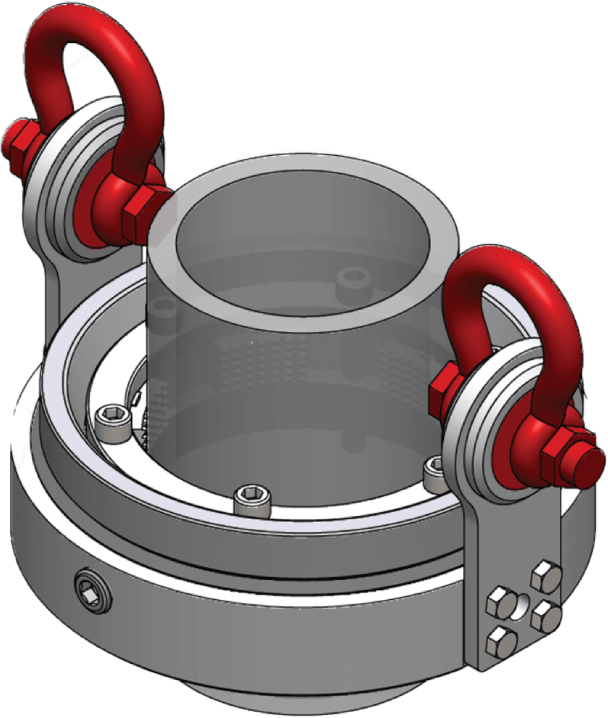
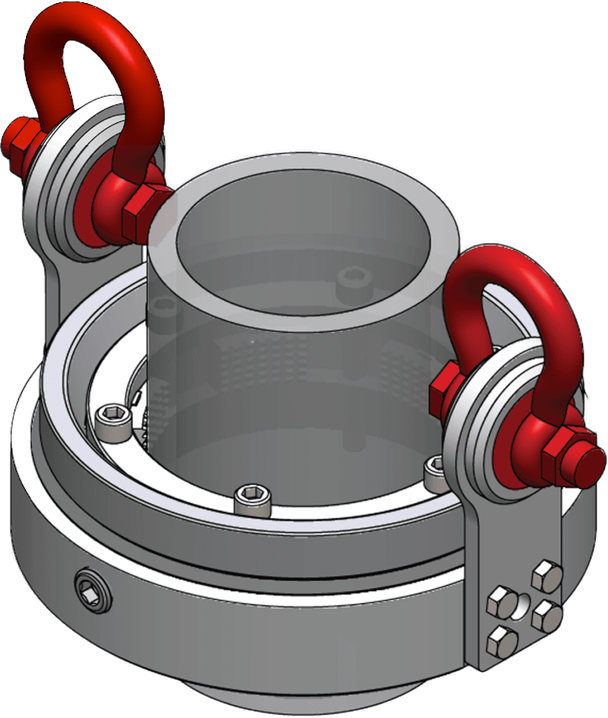
Kim final feedback (Nov 17): I&E naming, hero subtitle line breaks, benefit box alignment, centred list titles, nav opens on current section, clean search excerpts, CATM wording, footer dispatch numbers, new Tether Ring render, test jobs removed. Theme 0.4.11
Claude-Session: https://claude.ai/code/session_01WyYt77ZRT3Wx6KnEJioaaK

diff --git a/wp/wp-content/themes/protorque/assets/css/main.css b/wp/wp-content/themes/protorque/assets/css/main.css
@@ -122,7 +122,7 @@ button { font: inherit; color: inherit; background: none; border: 0; padding: 0;
 /* Hero */
 .pt-hero { position: relative; height: 750px; display: grid; place-items: center; overflow: hidden; color: var(--pt-white); }
 .pt-hero__video { position: absolute; inset: 0; width: 100%; height: 100%; object-fit: cover; }
-.pt-hero__scrim { position: absolute; inset: 0; background: rgba(0,0,0,.12); }
+.pt-hero__scrim { position: absolute; inset: 0; background: radial-gradient(ellipse at center, rgba(0,0,0,.58) 0%, rgba(0,0,0,.38) 55%, rgba(0,0,0,.22) 100%); }
 .pt-hero__title {
   position: relative;
   font-family: var(--pt-font-title);
@@ -132,6 +132,7 @@ button { font: inherit; color: inherit; background: none; border: 0; padding: 0;
   text-align: center;
   text-transform: uppercase;
   letter-spacing: 0.005em;
+  text-shadow: 0 2px 24px rgba(0,0,0,.55), 0 0 2px rgba(0,0,0,.6);
 }
 
 /* Mission */
@@ -454,7 +455,11 @@ button { font: inherit; color: inherit; background: none; border: 0; padding: 0;
 .pt-pagehero--sub img { filter: grayscale(1); }
 .pt-pagehero__scrim { position: absolute; inset: 0; background: rgba(0,0,0,.28); }
 .pt-pagehero__text { position: relative; text-align: center; max-width: 900px; padding: 0 var(--pt-gutter); }
-.pt-pagehero__sub { margin-top: 28px; font-size: 1.25rem; line-height: 1.45; font-weight: 500; max-width: 66rem; margin-inline: auto; }
+.pt-pagehero__sub { margin-top: 28px; font-size: 1.25rem; line-height: 1.45; font-weight: 500; max-width: 66rem; margin-inline: auto; text-wrap: balance; }
+@media (min-width: 1000px) { .pt-subline { display: block; } }
+/* No one-word last lines in centred copy (Kim, Nov 17) */
+.pt-lede, .pt-svc-overview p, .pt-h2, .pt-mission__text { text-wrap: balance; }
+p { text-wrap: pretty; }
 .pt-pagehero__text .pt-btn { margin-top: 36px; }
 
 /* Overview: photo left, text right (Our Story pattern) */
@@ -558,7 +563,7 @@ button { font: inherit; color: inherit; background: none; border: 0; padding: 0;
 .pt-checklist__head { grid-column: 1 / -1; font-family: var(--pt-font-title); font-size: 1.375rem; letter-spacing: 0.04em; text-transform: uppercase; margin-top: 12px; }
 .pt-checkgroups { display: grid; grid-template-columns: repeat(3, 1fr); gap: 40px 56px; max-width: 1180px; margin: 56px auto 0; }
 .pt-checkgroups--2 { grid-template-columns: repeat(2, 1fr); max-width: 900px; }
-.pt-checkgroup .pt-checklist__head { margin: 0 0 18px; padding-bottom: 12px; border-bottom: 2px solid rgba(255,255,255,0.35); }
+.pt-checkgroup .pt-checklist__head { margin: 0 0 18px; padding-bottom: 12px; border-bottom: 2px solid rgba(255,255,255,0.35); text-align: center; }
 .pt-checklist--col { display: block; margin: 0; max-width: none; }
 .pt-checklist--col li + li { margin-top: 14px; }
 @media (max-width: 900px) { .pt-checkgroups, .pt-checkgroups--2 { grid-template-columns: 1fr; gap: 36px; } }
@@ -621,9 +626,10 @@ button { font: inherit; color: inherit; background: none; border: 0; padding: 0;
 
 /* Why operators use it */
 .pt-benefits { padding: 112px var(--pt-gutter) 120px; }
-.pt-benefits__cols { display: grid; grid-template-columns: repeat(3, 1fr); gap: 0 48px; margin-top: 72px; }
-.pt-benefits__cols > div { padding: 8px 0; }
-.pt-benefits__cols > div + div { border-left: 2px solid var(--pt-yellow); padding-left: 48px; }
+.pt-benefits__cols { display: grid; grid-template-columns: repeat(3, 1fr); gap: 56px 48px; margin-top: 72px; }
+.pt-benefits__cols > div { padding: 8px 0 8px 48px; border-left: 2px solid var(--pt-yellow); display: grid; grid-template-rows: subgrid; grid-row: span 2; row-gap: 0; }
+.pt-benefits__cols > div:nth-child(3n+1) { border-left: 0; padding-left: 0; }
+.pt-benefits__cols h3 { align-self: end; }
 .pt-benefits__cols h3 { font-family: var(--pt-font-title); font-weight: 400; font-size: 2.125rem; line-height: 0.95; text-transform: uppercase; }
 .pt-benefits__cols p { margin-top: 22px; font-size: 1.0625rem; line-height: 1.45; font-weight: 500; }
 
@@ -721,8 +727,8 @@ button { font: inherit; color: inherit; background: none; border: 0; padding: 0;
 
 @media (max-width: 1180px) {
   .pt-rcards, .pt-rcards--4 { grid-template-columns: 1fr 1fr; }
-  .pt-benefits__cols { gap: 0 32px; }
-  .pt-benefits__cols > div + div { padding-left: 32px; }
+  .pt-benefits__cols { gap: 48px 32px; }
+  .pt-benefits__cols > div { padding-left: 32px; }
   .pt-tabs__grid, .pt-textlist__grid, .pt-eqhero__grid, .pt-featured { grid-template-columns: 1fr; gap: 48px 0; }
   .pt-eqhero__photo { max-width: 560px; }
   .pt-featured__body { padding: 40px; }
@@ -730,7 +736,8 @@ button { font: inherit; color: inherit; background: none; border: 0; padding: 0;
 }
 @media (max-width: 900px) {
   .pt-rcards, .pt-rcards--4, .pt-benefits__cols, .pt-postgrid, .pt-form__fields, .pt-newsletter .pt-form__fields { grid-template-columns: 1fr; }
-  .pt-benefits__cols > div + div { border-left: 0; padding-left: 0; margin-top: 40px; }
+  .pt-benefits__cols { gap: 40px 0; }
+  .pt-benefits__cols > div { border-left: 0; padding-left: 0; display: block; }
   .pt-media__gallery { grid-template-columns: 1fr; }
   .pt-tabs__tab { font-size: 1.125rem; padding: 10px 14px 12px; }
   .pt-table th { width: 100%; display: block; border-bottom: 0; padding-bottom: 4px; }

diff --git a/wp/wp-content/themes/protorque/page-midstream-services.php b/wp/wp-content/themes/protorque/page-midstream-services.php
@@ -12,7 +12,7 @@ get_header();
 $services = [
 	[ 'n' => '01', 'title' => 'Midstream Construction', 'lead' => 'New facilities, pipelines, and infrastructure built right.', 'body' => 'Plant construction, pipeline construction, facility expansion, civil work, foundations, and turnkey midstream builds. Combo welders for poly, carbon, and stainless.', 'url' => $home . 'midstream-services/midstream-construction/', 'cta' => 'Explore Midstream Construction' ],
 	[ 'n' => '02', 'title' => 'Plant and Pipeline Maintenance', 'lead' => 'Keeping facilities running. Responding fast when they need support.', 'body' => 'Ongoing maintenance, plant turnarounds, T&amp;M work, pipeline maintenance, and reliability programs. The crews operators call when downtime is not an option.', 'url' => $home . 'midstream-services/plant-and-pipeline-maintenance/', 'cta' => 'Explore Plant and Pipeline Maintenance' ],
-	[ 'n' => '03', 'title' => 'Facilities Electrical I&amp;C and Mechanical', 'lead' => 'Master electricians and mechanical trades under one roof.', 'body' => 'Electrical and instrumentation, mechanical trades, and full E&amp;I-Mech capability for facility builds, expansions, and ongoing maintenance. Turnkey when operators need it.', 'url' => $home . 'midstream-services/facilities-electrical-instrumentation-mechanical/', 'cta' => 'Explore Facilities E&amp;I and Mechanical' ],
+	[ 'n' => '03', 'title' => 'Facilities I&amp;E and Mechanical', 'lead' => 'Master electricians and mechanical trades under one roof.', 'body' => 'Electrical and instrumentation, mechanical trades, and full I&amp;E-Mech capability for facility builds, expansions, and ongoing maintenance. Turnkey when operators need it.', 'url' => $home . 'midstream-services/facilities-electrical-instrumentation-mechanical/', 'cta' => 'Explore Facilities I&amp;E and Mechanical' ],
 	[ 'n' => '04', 'title' => 'Environmental and Water Management', 'lead' => 'Water, environmental, and compliance services for midstream operations.', 'body' => 'Produced water management, clean brine facility operations, environmental compliance, and integrated water management programs. Connected to ProTorque&rsquo;s broader water and drilling capability.', 'url' => $home . 'midstream-services/environmental-and-water-management/', 'cta' => 'Explore Environmental and Water Management' ],
 	[ 'n' => '05', 'title' => 'ROW Services', 'lead' => 'Right of way clearing, pads, and civil work that gets the project ready.', 'body' => 'ROW clearing, new pad construction, civil concrete work, industrial weed control, and the foundational site work that midstream construction depends on.', 'url' => $home . 'midstream-services/row-services/', 'cta' => 'Explore ROW Services' ],
 	[ 'n' => '06', 'title' => 'Specialty Piping', 'lead' => 'Fiber glass piping and specialty material installation.', 'body' => 'Fiber glass piping installation for facilities and corrosive-service applications. Combo-welded carbon and stainless piping for facility expansions and new builds.', 'url' => $home . 'midstream-services/specialty-piping/', 'cta' => 'Explore Specialty Piping' ],
@@ -25,7 +25,7 @@ $services = [
 		<div class="pt-pagehero__scrim"></div>
 		<div class="pt-pagehero__text">
 			<h1 class="pt-pagehero__title">Midstream<br>Services</h1>
-			<p class="pt-pagehero__sub">Construction, maintenance, and operational support for the facilities and pipelines that move energy.</p>
+			<p class="pt-pagehero__sub"><?php echo pt_sub( 'Construction, maintenance, and operational support for the facilities and pipelines that move energy.' ); ?></p>
 		</div>
 	</section>
 
@@ -38,7 +38,7 @@ $services = [
 				<p class="pt-eyebrow pt-eyebrow--red">Midstream Services</p>
 				<h2 class="pt-h2 pt-h2--left">The Crews Behind Reliable Midstream Operations</h2>
 				<p>Facility reliability does not happen by accident. It takes skilled trades, fast response, and crews that understand the infrastructure they are working on. ProTorque provides midstream services for operators across North America: construction, maintenance, electrical and instrumentation, mechanical, environmental, ROW, and specialty piping. The work that keeps facilities operational and infrastructure performing.</p>
-				<p>Whether the program is a new facility build in the Permian Basin, a turnaround in West Texas, a pipeline tie-in, or ongoing E&amp;I and mechanical support for a midstream operator, ProTorque shows up with the trades, the equipment, and the discipline to keep operations on schedule.</p>
+				<p>Whether the program is a new facility build in the Permian Basin, a turnaround in West Texas, a pipeline tie-in, or ongoing I&amp;E and mechanical support for a midstream operator, ProTorque shows up with the trades, the equipment, and the discipline to keep operations on schedule.</p>
 				<p>Twenty-plus years of energy services experience. Combo welders for poly, carbon, and stainless. Master electricians on staff. Both mechanical and electrical departments under one roof for turnkey operations and builds.</p>
 			</div>
 		</div>
@@ -89,7 +89,7 @@ $services = [
 	<section class="pt-ctabar pt-section--black">
 		<div class="pt-ctabar__inner">
 			<h2 class="pt-ctabar__title">Need Crews on a Midstream Facility or Pipeline?</h2>
-			<p class="pt-ctabar__text">Talk to ProTorque about construction, maintenance, E&amp;I, ROW, or specialty piping work.</p>
+			<p class="pt-ctabar__text">Talk to ProTorque about construction, maintenance, I&amp;E, ROW, or specialty piping work.</p>
 			<a class="pt-btn" href="<?php echo esc_url( $home . 'contact-us/' ); ?>">Get in Touch</a>
 		</div>
 	</section>

diff --git a/wp/wp-content/themes/protorque/inc/sections.php b/wp/wp-content/themes/protorque/inc/sections.php
@@ -63,6 +63,32 @@ function pt_list_groups( array $items ): array {
 	return $groups;
 }
 
+/**
+ * Hero subtitle with a deliberate line break (Kim, Nov 17): a multi-sentence subtitle too long for one line
+ * breaks at the sentence end nearest its middle on desktop, so no single word is left alone on a second line.
+ * Short or single-sentence subtitles are left to CSS (text-wrap: balance).
+ */
+function pt_sub( $text ) {
+	$text = trim( (string) $text );
+	if ( mb_strlen( $text ) > 88 && preg_match_all( '/[.!?](?=\s+\S)/u', $text, $m, PREG_OFFSET_CAPTURE ) ) {
+		$mid  = strlen( $text ) / 2;
+		$best = null;
+		foreach ( $m[0] as $hit ) {
+			$pos = $hit[1] + 1;
+			if ( $pos < 24 || strlen( $text ) - $pos < 24 ) {
+				continue;
+			}
+			if ( null === $best || abs( $pos - $mid ) < abs( $best - $mid ) ) {
+				$best = $pos;
+			}
+		}
+		if ( null !== $best ) {
+			return '<span class="pt-subline">' . esc_html( trim( substr( $text, 0, $best ) ) ) . '</span> <span class="pt-subline">' . esc_html( trim( substr( $text, $best ) ) ) . '</span>';
+		}
+	}
+	return esc_html( $text );
+}
+
 function pt_content_page( $slug ) {
 	return pt_content_pages()[ $slug ] ?? null;
 }
@@ -78,6 +104,7 @@ function pt_img( $rel ) {
 		'content/irong-roughneck-card-2.jpg'     => 'content/iron-roughneck-card-v2.jpg',
 		'content/real-time-drilling-data-card.jpg' => 'content/real-time-drilling-data-card-v2.jpg',
 		'content/protorque-and-prostar.jpg'      => 'content/tubular-running-card-v2.jpg',
+		'content/mobile-bucking-frame-card.jpg'  => 'content/bucking-frame-4.jpg', // card showed the Mobile BHA Frame (Kim, Nov 17)
 	];
 	$rel = ltrim( $rel, '/' );
 	return get_template_directory_uri() . '/assets/img/' . ( $swap[ $rel ] ?? $rel );
@@ -194,7 +221,7 @@ function pt_render_section( $s, $page, &$prev ) {
 						<div class="pt-eqhero__text">
 							<p class="pt-eyebrow pt-eyebrow--yellow">Equipment &amp; Innovation</p>
 							<h1 class="pt-pagehero__title pt-eqhero__title"><?php echo esc_html( $s['title'] ); ?></h1>
-							<?php if ( ! empty( $s['sub'] ) ) : ?><p class="pt-pagehero__sub"><?php echo esc_html( $s['sub'] ); ?></p><?php endif; ?>
+							<?php if ( ! empty( $s['sub'] ) ) : ?><p class="pt-pagehero__sub"><?php echo pt_sub( $s['sub'] ); ?></p><?php endif; ?>
 							<p class="pt-eqhero__prostar">Engineered and supplied by <a href="https://www.prostarequipment.com/" target="_blank" rel="noopener">ProStar Equipment</a>.</p>
 							<a class="pt-btn" href="<?php echo esc_url( home_url( '/contact-us/' ) ); ?>">Request a Quote</a>
 						</div>
@@ -214,7 +241,7 @@ function pt_render_section( $s, $page, &$prev ) {
 				<?php if ( $hero ) : ?><img src="<?php echo esc_url( pt_img( $hero ) ); ?>" alt="" width="1440" height="810"><div class="pt-pagehero__scrim"></div><?php endif; ?>
 				<div class="pt-pagehero__text">
 					<h1 class="pt-pagehero__title<?php echo $long; ?>"><?php echo esc_html( $s['title'] ); ?></h1>
-					<?php if ( ! empty( $s['sub'] ) ) : ?><p class="pt-pagehero__sub"><?php echo esc_html( $s['sub'] ); ?></p><?php endif; ?>
+					<?php if ( ! empty( $s['sub'] ) ) : ?><p class="pt-pagehero__sub"><?php echo pt_sub( $s['sub'] ); ?></p><?php endif; ?>
 					<?php if ( $page['kind'] === 'service' ) : ?><a class="pt-btn" href="<?php echo esc_url( home_url( '/contact-us/' ) ); ?>">Get in Touch</a><?php endif; ?>
 				</div>
 			</section>

diff --git a/wp/wp-content/themes/protorque/page-about.php b/wp/wp-content/themes/protorque/page-about.php
@@ -185,7 +185,7 @@ get_header();
 					<p>My vision for ProTorque is not to become the biggest company in our industry. It is to build a group of companies recognized for execution, innovation, entrepreneurship, and the quality of our people, while continuing to create opportunities for the employees, customers, partners, and communities who have helped us grow.</p>
 					<p>The equipment will continue to change. Technology will continue to evolve. Markets will rise and fall. But the fundamentals of building a great company remain remarkably consistent: work hard, surround yourself with great people, take care of your customers, embrace change, and never stop looking for a better way.</p>
 					<p>That was the foundation of ProTorque when we started, and it will remain the foundation of where we go next.</p>
-					<p class="pt-president__sig"><strong>Landon McDonald</strong><br>President, ProTorque Energy Companies</p>
+					<p class="pt-president__sig"><strong>Landon McDonald</strong><br>President &amp; CEO</p>
 			</div>
 		</div>
 	</section>
@@ -216,7 +216,7 @@ get_header();
 					<img src="<?php echo esc_url( "$img/about/midland.jpg" ); ?>" srcset="<?php echo esc_url( "$img/about/midland@2x.jpg" ); ?> 2x" alt="Midland, Texas skyline" width="400" height="250" loading="lazy">
 					<div class="pt-office__body">
 						<h3>United States</h3><p class="pt-office__city">Midland, TX</p>
-						<p><strong>ProTorque US operations base.</strong><br>Tubular running services for completions and workovers, drilling verification, and midstream services across the Permian Basin and New Mexico.</p>
+						<p><strong>ProTorque US operations base.</strong><br>Midstream construction and maintenance services, tubular running services for completions and workovers, and drilling verification across the Permian Basin and New Mexico.</p>
 						<p>3424 South County Road 1192,<br>Midland, TX, 79706<br><a href="tel:+17133005216">+1.713.300.5216</a></p>
 						<p><a class="pt-office__dir" href="https://www.google.com/maps/search/?api=1&amp;query=3424+South+County+Road+1192%2C+Midland%2C+TX+79706">Get directions</a></p>
 					</div>

diff --git a/wp/wp-content/themes/protorque/inc/nav.php b/wp/wp-content/themes/protorque/inc/nav.php
@@ -83,14 +83,24 @@ function pt_nav_render_desktop( array $tree ): void {
 
 function pt_nav_render_split( array $node ): void {
 	$tabs = $node['children'];
+	// Open on the tab for the section the visitor is in (Kim, Nov 17); first tab otherwise.
+	$here = trailingslashit( (string) wp_parse_url( $_SERVER['REQUEST_URI'] ?? '/', PHP_URL_PATH ) );
+	$cur  = 0;
+	foreach ( $tabs as $i => $t ) {
+		$path = trailingslashit( (string) wp_parse_url( $t['url'], PHP_URL_PATH ) );
+		if ( '/' !== $path && 0 === strpos( $here, $path ) ) {
+			$cur = $i;
+			break;
+		}
+	}
 	echo '<div class="pt-mega pt-mega--split" role="region" aria-label="' . esc_attr( $node['title'] ) . '"><div class="pt-mega__inner">';
 	echo '<div class="pt-mega__tabs"><p class="pt-mega__eyebrow">' . esc_html( $node['title'] ) . '</p><ul role="tablist">';
 	foreach ( $tabs as $i => $t ) {
 		printf(
 			'<li><a class="pt-mega__tab%s" href="%s" role="tab" aria-selected="%s" aria-controls="pt-pane-%d" id="pt-tab-%d">%s<span class="pt-nav__chev" aria-hidden="true"></span></a></li>',
-			0 === $i ? ' is-active' : '',
+			$cur === $i ? ' is-active' : '',
 			esc_url( $t['url'] ),
-			0 === $i ? 'true' : 'false',
+			$cur === $i ? 'true' : 'false',
 			$t['id'],
 			$t['id'],
 			esc_html( $t['title'] )
@@ -98,7 +108,7 @@ function pt_nav_render_split( array $node ): void {
 	}
 	echo '</ul></div><div class="pt-mega__panes">';
 	foreach ( $tabs as $i => $t ) {
-		printf( '<div class="pt-mega__pane%s" id="pt-pane-%d" role="tabpanel" aria-labelledby="pt-tab-%d"%s>', 0 === $i ? ' is-active' : '', $t['id'], $t['id'], 0 === $i ? '' : ' hidden' );
+		printf( '<div class="pt-mega__pane%s" id="pt-pane-%d" role="tabpanel" aria-labelledby="pt-tab-%d"%s>', $cur === $i ? ' is-active' : '', $t['id'], $t['id'], $cur === $i ? '' : ' hidden' );
 		printf( '<p class="pt-mega__eyebrow"><a href="%s">%s</a></p><ul class="pt-mega__links">', esc_url( $t['url'] ), esc_html( $t['title'] ) );
 		foreach ( $t['children'] as $c ) {
 			printf( '<li><a href="%s">%s</a></li>', esc_url( $c['url'] ), esc_html( $c['title'] ) );

diff --git a/wp/wp-content/themes/protorque/inc/migrations.php b/wp/wp-content/themes/protorque/inc/migrations.php
@@ -119,6 +119,37 @@ add_action( 'init', function () {
 }, 20 );
 
 /**
+ * 2026-11-17 (Kim, final feedback): I&E naming in stored titles (pages, menu items), and the five seeded
+ * test job postings removed until real postings are supplied.
+ */
+function pt_migration_feedback_2026_11_17() {
+	if ( pt_migration_done( 'feedback-2026-11-17' ) ) {
+		return;
+	}
+	global $wpdb;
+	$rows = $wpdb->get_results( "SELECT ID, post_title FROM {$wpdb->posts} WHERE post_type IN ('page','nav_menu_item') AND ( post_title LIKE '%E&I%' OR post_title LIKE '%E&amp;I%' OR post_title LIKE '%I&C%' OR post_title LIKE '%I&amp;C%' )" );
+	foreach ( (array) $rows as $r ) {
+		$t = str_replace(
+			[ 'Facilities Electrical I&amp;C and Mechanical', 'Facilities Electrical I&C and Mechanical', 'E&amp;I', 'E&I', 'I&amp;C', 'I&C' ],
+			[ 'Facilities I&amp;E and Mechanical', 'Facilities I&E and Mechanical', 'I&amp;E', 'I&E', 'I&amp;E', 'I&E' ],
+			$r->post_title
+		);
+		if ( $t !== $r->post_title ) {
+			$wpdb->update( $wpdb->posts, [ 'post_title' => $t ], [ 'ID' => $r->ID ] );
+			clean_post_cache( $r->ID );
+		}
+	}
+	foreach ( [ 1, 2, 3, 4, 5 ] as $n ) {
+		$jobs = get_posts( [ 'post_type' => 'pt_job', 'post_status' => 'any', 'title' => "Power Tong Operator $n", 'numberposts' => -1, 'fields' => 'ids' ] );
+		foreach ( $jobs as $id ) {
+			wp_delete_post( $id, true );
+		}
+	}
+	pt_migration_mark( 'feedback-2026-11-17' );
+}
+add_action( 'init', 'pt_migration_feedback_2026_11_17', 21 );
+
+/**
  * Launch redirects (301) from the old ptenergy.com URLs, crawled Oct 20, 2026 from the live sitemaps and the
  * Services and Products pages. Explicit map first, then the blog rule: /portfolio/<slug>/ to /<slug>/ for any post.
  */

diff --git a/wp/wp-content/themes/protorque/inc/seo.php b/wp/wp-content/themes/protorque/inc/seo.php
@@ -25,3 +25,39 @@ add_action( 'wp_head', function () {
 		echo '<meta name="description" content="' . esc_attr( wp_strip_all_tags( $desc ) ) . '">' . "\n";
 	}
 }, 1 );
+
+/**
+ * Search result excerpt. Theme pages render from the content files, so their database content can still hold
+ * old page-builder markup; use the page's own subtitle or opening paragraph instead, and never print shortcodes.
+ */
+function pt_search_excerpt() {
+	$post = get_post();
+	if ( $post && 'page' === $post->post_type && function_exists( 'pt_content_pages' ) ) {
+		$pages = pt_content_pages();
+		$page  = $pages[ $post->post_name ] ?? null;
+		if ( $page ) {
+			foreach ( $page['sections'] ?? [] as $sec ) {
+				if ( ! empty( $sec['sub'] ) ) {
+					return wp_trim_words( wp_strip_all_tags( $sec['sub'] ), 30 );
+				}
+				if ( ! empty( $sec['paras'][0] ) ) {
+					return wp_trim_words( wp_strip_all_tags( $sec['paras'][0] ), 30 );
+				}
+			}
+		}
+		$meta = get_post_meta( $post->ID, '_pt_meta_description', true );
+		if ( $meta ) {
+			return $meta;
+		}
+	}
+	$text = has_excerpt( $post ) ? get_the_excerpt( $post ) : (string) ( $post->post_content ?? '' );
+	$text = preg_replace( '/\[\/?[a-zA-Z][^\]]*\]/', ' ', $text ); // any shortcode, registered or not
+	return wp_trim_words( wp_strip_all_tags( $text ), 24 );
+}
+
+/* Search covers pages, posts and jobs only, and matches on titles and the visible content. */
+add_action( 'pre_get_posts', function ( $q ) {
+	if ( ! is_admin() && $q->is_main_query() && $q->is_search() ) {
+		$q->set( 'post_type', [ 'page', 'post', 'pt_job' ] );
+	}
+} );

diff --git a/wp/wp-content/themes/protorque/footer.php b/wp/wp-content/themes/protorque/footer.php
@@ -27,8 +27,8 @@ $pt_home = home_url( '/' );
 		<div class="pt-footer__col">
 			<h2 class="pt-footer__heading"><?php esc_html_e( 'Canada', 'protorque' ); ?></h2>
 			<p>24 Hour Dispatch:<br><a href="mailto:PTCT.Sales@ptenergy.com">PTCT.Sales@ptenergy.com</a></p>
-			<p>Grande Prairie<br><a href="tel:+17802886128">+1.780.288.6128</a><br>Red Deer</p>
-			<p><a href="tel:+17809330404">+1.780.933.0404</a></p>
+			<p>Grande Prairie<br><a href="tel:+17802886128">+1.780.288.6128</a></p>
+			<p>Red Deer<br><a href="tel:+17809330404">+1.780.933.0404</a></p>
 			<p>Canada Head Office<br>1700, 520-5th Ave SW<br>Calgary, AB, T2P 3R7</p>
 		</div>
 

diff --git a/wp/wp-content/themes/protorque/search.php b/wp/wp-content/themes/protorque/search.php
@@ -18,7 +18,7 @@ get_header();
 			<li class="pt-post">
 				<p class="pt-post__date"><?php echo esc_html( get_post_type() === 'post' ? get_the_date( 'F j, Y' ) : ucfirst( get_post_type() === 'pt_job' ? 'Job' : get_post_type() ) ); ?></p>
 				<h3 class="pt-post__title"><a href="<?php the_permalink(); ?>"><?php the_title(); ?></a></h3>
-				<p class="pt-post__excerpt"><?php echo esc_html( wp_trim_words( get_the_excerpt() ?: wp_strip_all_tags( strip_shortcodes( get_the_content() ) ), 24 ) ); ?></p>
+				<p class="pt-post__excerpt"><?php echo esc_html( pt_search_excerpt() ); ?></p>
 			</li>
 			<?php endwhile; ?>
 		</ul>

diff --git a/wp/wp-content/themes/protorque/inc/equipment.php b/wp/wp-content/themes/protorque/inc/equipment.php
@@ -48,7 +48,7 @@ function pt_equipment_lineup( array $s ): void {
 				<?php foreach ( $s['cards'] as $c ) :
 					$slug = basename( untrailingslashit( (string) ( $c['url'] ?? '' ) ) );
 					$m    = $media[ $slug ] ?? [ 'app' => 'other', 'field' => null, 'specs' => [] ];
-					$prod = "$dir/assets/img/equipment/$slug.png";
+					$prod = "$dir/assets/img/equipment/$slug.png?v=" . PT_VERSION;
 					$fimg = "$dir/assets/img/equipment/$slug-field.jpg";
 					$fvid = "$dir/assets/media/equipment/$slug-field.mp4";
 					$short = preg_replace( '/ \(.*\)/', '', $c['title'] );

diff --git a/wp/wp-content/themes/protorque/page-careers.php b/wp/wp-content/themes/protorque/page-careers.php
@@ -23,7 +23,7 @@ get_header();
 		<div class="pt-pagehero__scrim"></div>
 		<div class="pt-pagehero__text">
 			<h1 class="pt-pagehero__title"><?php echo esc_html( $hero['title'] ); ?></h1>
-			<?php if ( ! empty( $hero['sub'] ) ) : ?><p class="pt-pagehero__sub"><?php echo esc_html( $hero['sub'] ); ?></p><?php endif; ?>
+			<?php if ( ! empty( $hero['sub'] ) ) : ?><p class="pt-pagehero__sub"><?php echo pt_sub( $hero['sub'] ); ?></p><?php endif; ?>
 			<a class="pt-btn" href="#positions">Explore Open Positions</a>
 		</div>
 	</section>

diff --git a/wp/wp-content/themes/protorque/page-contact-us.php b/wp/wp-content/themes/protorque/page-contact-us.php
@@ -50,7 +50,7 @@ get_header();
 	<section class="pt-pagehero pt-pagehero--sub pt-pagehero--plain">
 		<div class="pt-pagehero__text">
 			<h1 class="pt-pagehero__title"><?php echo esc_html( $hero['title'] ); ?></h1>
-			<?php if ( ! empty( $hero['sub'] ) ) : ?><p class="pt-pagehero__sub"><?php echo esc_html( $hero['sub'] ); ?></p><?php endif; ?>
+			<?php if ( ! empty( $hero['sub'] ) ) : ?><p class="pt-pagehero__sub"><?php echo pt_sub( $hero['sub'] ); ?></p><?php endif; ?>
 		</div>
 	</section>
 
